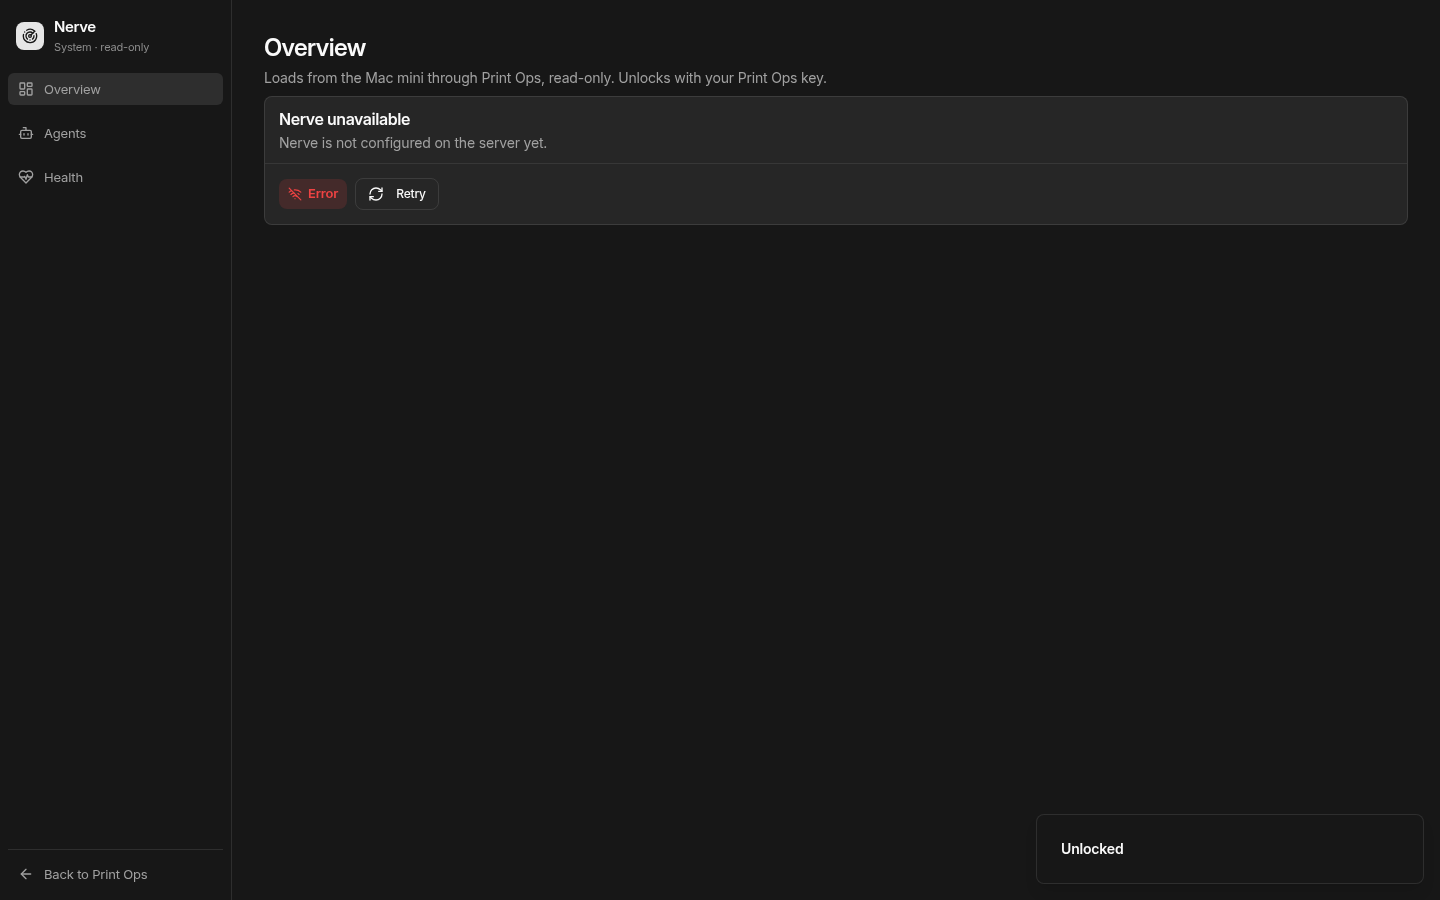
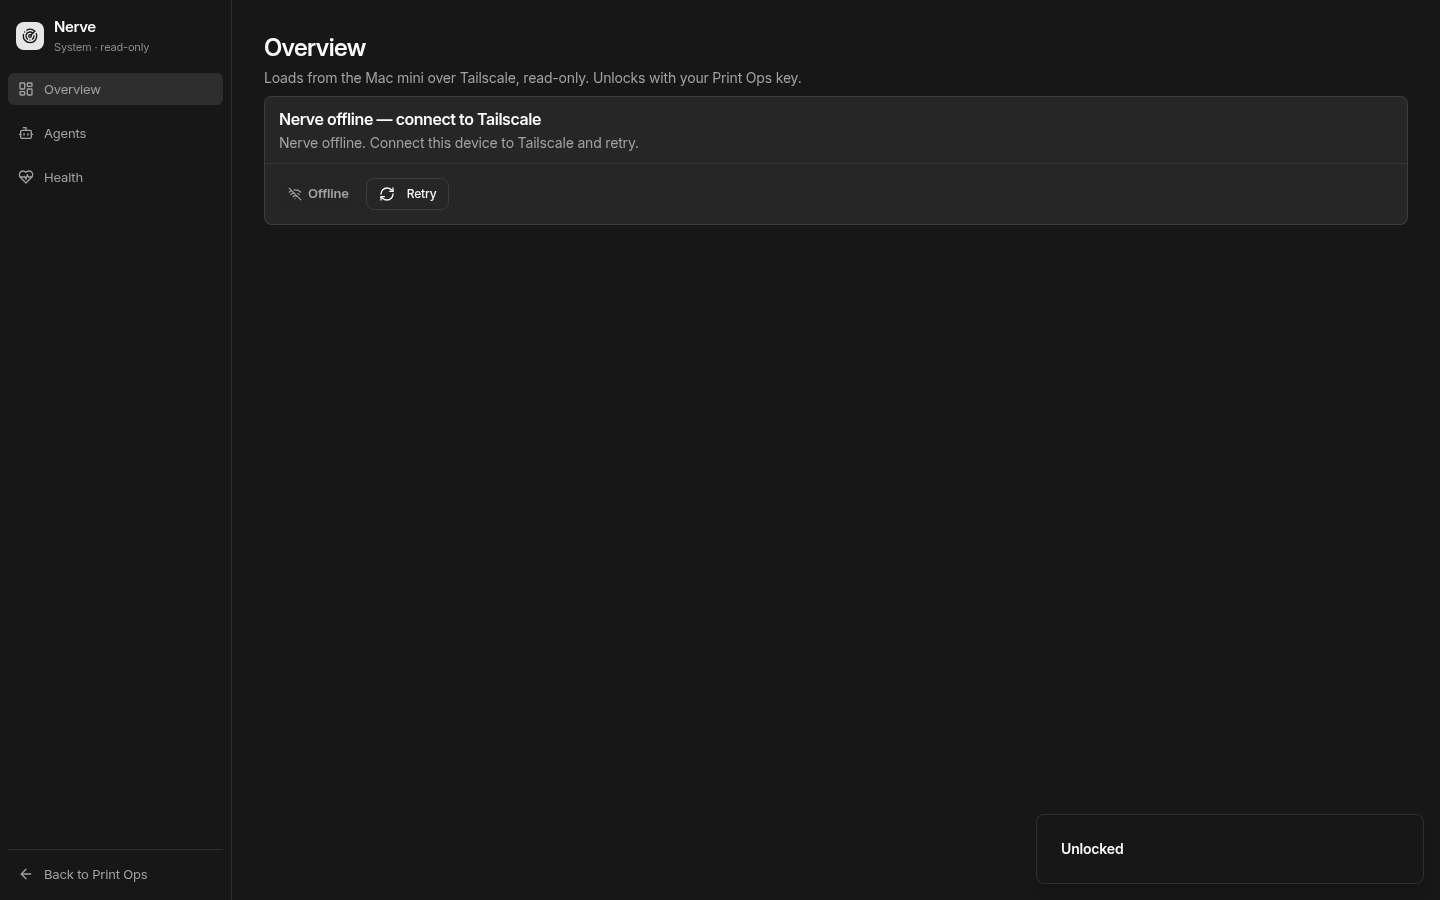
Nerve Option B: server hands the Nerve key to an unlocked Print Ops session; browser calls Nerve over Tailscale; drop proxy

Changed region(s): [[0.1875, 0.1244, 0.4375, 0.2489], [0.2812, 0.0622, 0.5625, 0.0933]]

diff --git a/client/src/lib/nerve.ts b/client/src/lib/nerve.ts
@@ -2,11 +2,15 @@
  * Nerve section (feature flag, OFF by default).
  *
  * Enable at build time with VITE_NERVE_SECTION_ENABLED=true (Railway variable, needs a rebuild).
- * Data goes through the Print Ops server: GET /api/nerve/* (server/lib/nerve-proxy.ts) authenticated with
- * the normal Print Ops owner code. The server adds the Nerve key from its own env (NERVE_KEY); the
- * browser never asks for, holds, or stores a Nerve key. Read-only paths only.
+ * Data path (Option B): the browser fetches the Mac mini's Nerve API directly over Tailscale. Nerve stays
+ * private (tailnet only). There is no separate Nerve key prompt: an unlocked Print Ops session gets the key
+ * from GET /api/nerve/session-key (owner-code guarded) and holds it in page memory only, never in storage.
+ * Nerve failures (offline, Nerve 401) never touch the Print Ops owner session.
  */
 export const NERVE_SECTION_ENABLED = import.meta.env.VITE_NERVE_SECTION_ENABLED === "true";
+export const NERVE_API_BASE: string =
+  (import.meta.env.VITE_NERVE_API_BASE as string | undefined) || "https://miguels-mac-mini.tailc0d52c.ts.net/nerve";
+
 /** Legacy storage names an older build might have used for a Nerve key. Removed on load; never written. */
 const LEGACY_NERVE_STORAGE_KEYS = ["nerve-key", "nerveKey", "print-ops-nerve-key", "x-nerve-key"];
 export function clearLegacyNerveKeyStorage() {
@@ -28,22 +32,66 @@ export type NerveError = { kind: "locked" | "offline" | "error"; message: string
  * Read a Nerve path through the Print Ops server. ownerCode is the Print Ops key already in the owner
  * session. A Nerve-side failure is never reported as 401, so it can't lock the Print Ops session.
  */
+// Page memory only, tied to the owner code it was fetched with. Never written to storage.
+let memKey: { owner: string; key: string } | null = null;
+let inflight: Promise<string> | null = null;
+
+export function forgetNerveKey() {
+  memKey = null;
+  inflight = null;
+}
+
+async function nerveKeyFor(ownerCode: string): Promise<string> {
+  if (memKey && memKey.owner === ownerCode) return memKey.key;
+  if (!inflight) {
+    inflight = (async () => {
+      let res: Response;
+      try {
+        // Plain fetch, not apiRequest: a failure here must never fire the owner-auth-failure lock.
+        res = await fetch("/api/nerve/session-key", {
+          headers: { "x-paid-order-access-code": ownerCode },
+          cache: "no-store",
+          signal: AbortSignal.timeout(10000),
+        });
+      } catch {
+        throw { kind: "error", message: "Can't reach Print Ops. Check your connection and retry." } satisfies NerveError;
+      }
+      if (res.status === 401) throw { kind: "locked", message: "Print Ops key was not accepted. Lock and unlock Print Ops again." } satisfies NerveError;
+      if (res.status === 503) throw { kind: "error", message: "Nerve is not configured on the server yet." } satisfies NerveError;
+      if (!res.ok) throw { kind: "error", message: `Print Ops answered ${res.status}.` } satisfies NerveError;
+      const body = (await res.json()) as { key?: string };
+      if (!body.key) throw { kind: "error", message: "Nerve is not configured on the server yet." } satisfies NerveError;
+      memKey = { owner: ownerCode, key: body.key };
+      return body.key;
+    })().finally(() => {
+      inflight = null;
+    });
+  }
+  return inflight;
+}
+
+const OFFLINE: NerveError = { kind: "offline", message: "Nerve offline. Connect this device to Tailscale and retry." };
+
+/** Read a Nerve path directly from the Mac mini over Tailscale, using the server-supplied key. */
 export async function nerveGet<T>(path: string, ownerCode: string): Promise<T> {
   if (!ownerCode) throw { kind: "locked", message: "Unlock Print Ops to load Nerve." } satisfies NerveError;
+  const key = await nerveKeyFor(ownerCode);
   let res: Response;
   try {
-    res = await fetch("/api/nerve" + path, {
+    res = await fetch(NERVE_API_BASE + path, {
       method: "GET",
-      headers: { "x-paid-order-access-code": ownerCode },
+      headers: { "x-nerve-key": key },
+      credentials: "omit",
       cache: "no-store",
-      signal: AbortSignal.timeout(15000),
+      signal: AbortSignal.timeout(12000),
     });
   } catch {
-    throw { kind: "offline", message: "Can't reach Print Ops. Check your connection and retry." } satisfies NerveError;
+    throw OFFLINE;
   }
-  if (res.status === 401) throw { kind: "locked", message: "Print Ops key was not accepted." } satisfies NerveError;
-  if (res.status === 502) throw { kind: "offline", message: "The server can't reach Nerve on the Mac mini right now." } satisfies NerveError;
-  if (res.status === 503) throw { kind: "error", message: "Nerve is not configured on the server yet." } satisfies NerveError;
+  if (res.status === 401 || res.status === 403) {
+    forgetNerveKey(); // refetch from the server next time (e.g. key rotated); Print Ops session untouched
+    throw { kind: "error", message: "Nerve didn't accept the server's key. Retry, or check NERVE_KEY on Railway." } satisfies NerveError;
+  }
   if (!res.ok) throw { kind: "error", message: `Nerve answered ${res.status}.` } satisfies NerveError;
   return (await res.json()) as T;
 }

diff --git a/tests/nerve-session-key.test.ts b/tests/nerve-session-key.test.ts
@@ -1,0 +1,61 @@
+import test from "node:test";
+import assert from "node:assert/strict";
+import crypto from "node:crypto";
+import express from "express";
+import http from "node:http";
+import type { AddressInfo } from "node:net";
+import { readFileSync } from "node:fs";
+import { registerNerveSessionKeyRoute } from "../server/lib/nerve-session-key";
+
+const OWNER = "owner-code-for-tests";
+const NK = "server-side-nerve-key-for-tests";
+const env = {
+  PAID_ORDER_INTAKE_ACCESS_CODE_HASH: crypto.createHash("sha256").update(OWNER).digest("hex"),
+  NERVE_KEY: NK,
+} as NodeJS.ProcessEnv;
+
+async function withServer(e: NodeJS.ProcessEnv, fn: (base: string) => Promise<void>) {
+  const app = express();
+  registerNerveSessionKeyRoute(app, { env: e });
+  const server = http.createServer(app);
+  await new Promise<void>((r) => server.listen(0, r));
+  try {
+    await fn(`http://127.0.0.1:${(server.address() as AddressInfo).port}/api/nerve/session-key`);
+  } finally {
+    server.close();
+  }
+}
+
+test("valid Print Ops key gets the Nerve key, no-store", async () => {
+  await withServer(env, async (url) => {
+    const r = await fetch(url, { headers: { "x-paid-order-access-code": OWNER } });
+    assert.equal(r.status, 200);
+    assert.equal(r.headers.get("cache-control"), "no-store");
+    assert.equal(((await r.json()) as { key: string }).key, NK);
+  });
+});
+
+test("missing or wrong Print Ops key is 401, no key in body, no-store", async () => {
+  await withServer(env, async (url) => {
+    for (const h of [{}, { "x-paid-order-access-code": "nope" }] as Array<Record<string, string>>) {
+      const r = await fetch(url, { headers: h });
+      assert.equal(r.status, 401);
+      assert.equal(r.headers.get("cache-control"), "no-store");
+      assert.ok(!(await r.text()).includes(NK));
+    }
+  });
+});
+
+test("NERVE_KEY unset is 503", async () => {
+  await withServer({ ...env, NERVE_KEY: "" }, async (url) => {
+    const r = await fetch(url, { headers: { "x-paid-order-access-code": OWNER } });
+    assert.equal(r.status, 503);
+  });
+});
+
+test("client keeps the Nerve key out of storage and away from the owner-lock path", () => {
+  const src = readFileSync(new URL("../client/src/lib/nerve.ts", import.meta.url), "utf8");
+  assert.ok(!/(localStorage|sessionStorage)\.setItem/.test(src));
+  assert.ok(!/apiRequest\(|notifyOwnerAuthFailure\(|onOwnerAuthFailure\(|from "@\/lib\/queryClient"/.test(src));
+  assert.ok(!src.includes("server/lib/nerve-proxy"));
+});

diff --git a/server/lib/nerve-session-key.ts b/server/lib/nerve-session-key.ts
@@ -1,0 +1,38 @@
+/**
+ * GET /api/nerve/session-key — hands the Nerve v3 key to an already-unlocked Print Ops session.
+ *
+ * Option B: the browser still calls Nerve on the Mac mini directly over Tailscale (private, never
+ * exposed to the internet); this endpoint just removes the separate "Nerve key" prompt.
+ * Auth: the normal Print Ops owner code (x-paid-order-access-code), checked against
+ * PAID_ORDER_INTAKE_ACCESS_CODE_HASH. 401 on a bad/missing code, 503 when NERVE_KEY is unset.
+ * Always Cache-Control: no-store. The key is never logged.
+ */
+import crypto from "node:crypto";
+import type { Express, Request, Response } from "express";
+
+type Env = NodeJS.ProcessEnv;
+
+export function ownerAuthorized(req: Request, env: Env = process.env): "ok" | "not-configured" | "denied" {
+  const expected = env.PAID_ORDER_INTAKE_ACCESS_CODE_HASH?.trim().toLowerCase() || "";
+  if (!expected) return "not-configured";
+  const provided = (req.get("x-paid-order-access-code") ?? "").trim().replace(/^Bearer\s+/i, "");
+  if (!provided) return "denied";
+  const a = Buffer.from(crypto.createHash("sha256").update(provided, "utf8").digest("hex"), "utf8");
+  const b = Buffer.from(expected, "utf8");
+  return a.length === b.length && crypto.timingSafeEqual(a, b) ? "ok" : "denied";
+}
+
+export function registerNerveSessionKeyRoute(app: Express, deps: { env?: Env } = {}) {
+  const env = deps.env ?? process.env;
+  app.get("/api/nerve/session-key", (req: Request, res: Response) => {
+    res.set("cache-control", "no-store");
+    res.set("pragma", "no-cache");
+    const auth = ownerAuthorized(req, env);
+    if (auth !== "ok") {
+      return res.status(auth === "not-configured" ? 503 : 401).json({ ok: false, error: "Owner code required" });
+    }
+    const key = env.NERVE_KEY?.trim() || "";
+    if (!key) return res.status(503).json({ ok: false, error: "Nerve is not configured on the server" });
+    res.json({ ok: true, key });
+  });
+}

diff --git a/client/src/components/nerve-common.tsx b/client/src/components/nerve-common.tsx
@@ -3,7 +3,7 @@ import { RefreshCw, WifiOff } from "lucide-react";
 import { Panel, StatusPill } from "@/components/primitives";
 import { Button } from "@/components/ui/button";
 import { OwnerUnlockPanel, useOwnerSession, useOwnerUnlock } from "@/hooks/use-owner-session";
-import { clearLegacyNerveKeyStorage } from "@/lib/nerve";
+import { clearLegacyNerveKeyStorage, forgetNerveKey } from "@/lib/nerve";
 import type { NerveError } from "@/lib/nerve";
 
 /**
@@ -13,6 +13,9 @@ import type { NerveError } from "@/lib/nerve";
 export function useNerveAccess() {
   const { ownerCode } = useOwnerSession();
   useEffect(() => clearLegacyNerveKeyStorage(), []);
+  useEffect(() => {
+    if (!ownerCode) forgetNerveKey();
+  }, [ownerCode]);
   return ownerCode;
 }
 
@@ -33,7 +36,7 @@ export function NerveUnlock({ title = "Unlock Print Ops to see Nerve", descripti
 
 export function NerveErrorState({ err, retry }: { err: NerveError; retry: () => void }) {
   return (
-    <Panel title={err.kind === "offline" ? "Nerve offline" : "Nerve unavailable"} description={err.message} testId="panel-nerve-error">
+    <Panel title={err.kind === "offline" ? "Nerve offline — connect to Tailscale" : "Nerve unavailable"} description={err.message} testId="panel-nerve-error">
       <div className="flex items-center gap-2">
         <StatusPill tone={err.kind === "offline" ? "neutral" : "bad"} icon={WifiOff} label={err.kind === "offline" ? "Offline" : "Error"} />
         <Button variant="outline" size="sm" onClick={retry} data-testid="button-nerve-retry">

diff --git a/server/routes.ts b/server/routes.ts
@@ -78,7 +78,7 @@ import { listExpenses, overheadForPeriod } from "./lib/expenses";
 import { registerExpenseRoutes } from "./lib/expense-routes";
 import { registerInboxRoutes } from "./lib/inbox-routes";
 import { registerOpsSummaryRoutes } from "./lib/ops-summary-routes";
-import { registerNerveProxyRoutes } from "./lib/nerve-proxy";
+import { registerNerveSessionKeyRoute } from "./lib/nerve-session-key";
 import { registerPerformanceRoutes, refreshPrintFileStagesFromHubSpot } from "./lib/performance-routes";
 import { registerPrinterRoutes } from "./lib/printer-routes";
 import { firstIssue } from "./lib/validation";
@@ -1093,7 +1093,7 @@ export async function registerRoutes(httpServer: Server, app: Express): Promise<
   registerExpenseRoutes(app, rejectUnsecuredIntake);
   registerInboxRoutes(app, rejectUnsecuredIntake, rejectUnsecuredOwnerDigestCron);
   registerOpsSummaryRoutes(app);
-  registerNerveProxyRoutes(app);
+  registerNerveSessionKeyRoute(app);
 
   /**
    * Owner-only returning-buyer lookup. Matches a Marketplace username to the

diff --git a/client/src/components/shell.tsx b/client/src/components/shell.tsx
@@ -214,7 +214,7 @@ const NAV: Array<{
   { href: "/performance", label: "Stats", title: "Performance", icon: BarChart3, testId: "link-nav-performance", group: "Office", phone: "more" },
   { href: "/setup", label: "Setup", title: "System Setup", icon: Settings2, testId: "link-nav-setup", group: "Office", phone: "more" },
   ...(NERVE_SECTION_ENABLED
-    ? [{ href: "/nerve", label: "Nerve", title: "Nerve (Mac mini, read-only)", icon: Radar, testId: "link-nav-nerve", group: "Office" as NavGroup, phone: "more" as const }]
+    ? [{ href: "/nerve", label: "Nerve", title: "Nerve (Mac mini, Tailscale)", icon: Radar, testId: "link-nav-nerve", group: "Office" as NavGroup, phone: "more" as const }]
     : []),
 ];
 

diff --git a/client/src/pages/nerve.tsx b/client/src/pages/nerve.tsx
@@ -310,7 +310,7 @@ export default function NervePage() {
       <main className="min-w-0 flex-1 overflow-y-auto pb-24 md:pb-8">
         <header className="px-4 pb-2 pt-4 md:px-8 md:pt-8">
           <h1 className="ops-page-title" data-testid="text-nerve-title">{current.label}</h1>
-          <p className="mt-1 max-w-3xl text-sm leading-5 text-[hsl(var(--text-2))]">Loads from the Mac mini through Print Ops, read-only. Unlocks with your Print Ops key.</p>
+          <p className="mt-1 max-w-3xl text-sm leading-5 text-[hsl(var(--text-2))]">Loads from the Mac mini over Tailscale, read-only. Unlocks with your Print Ops key.</p>
         </header>
         <div className="px-4 md:px-8">{body}</div>
       </main>
